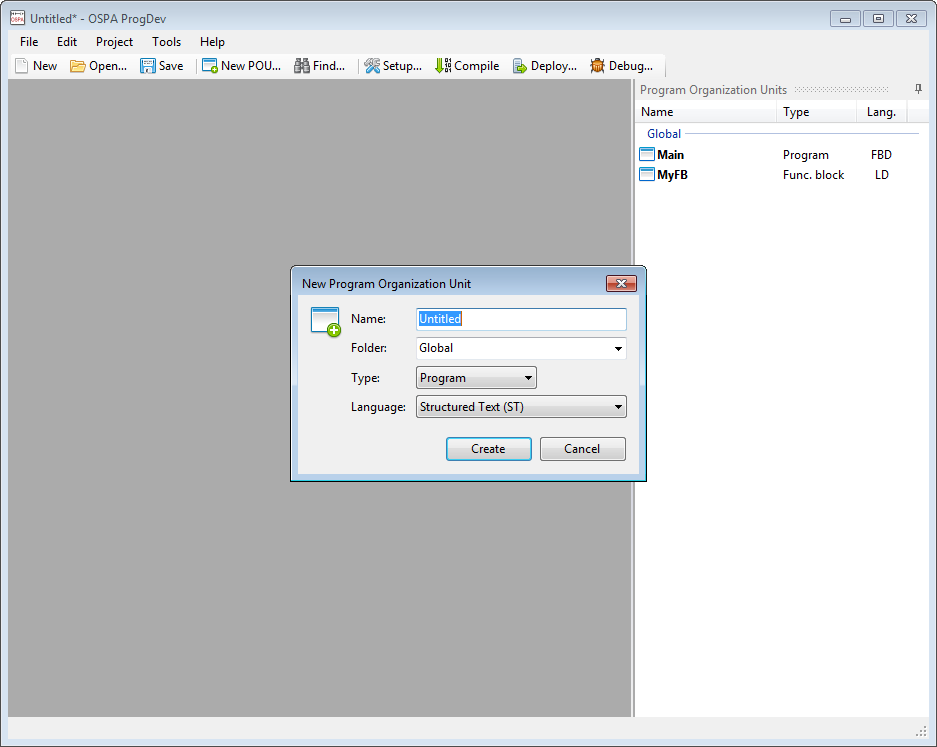
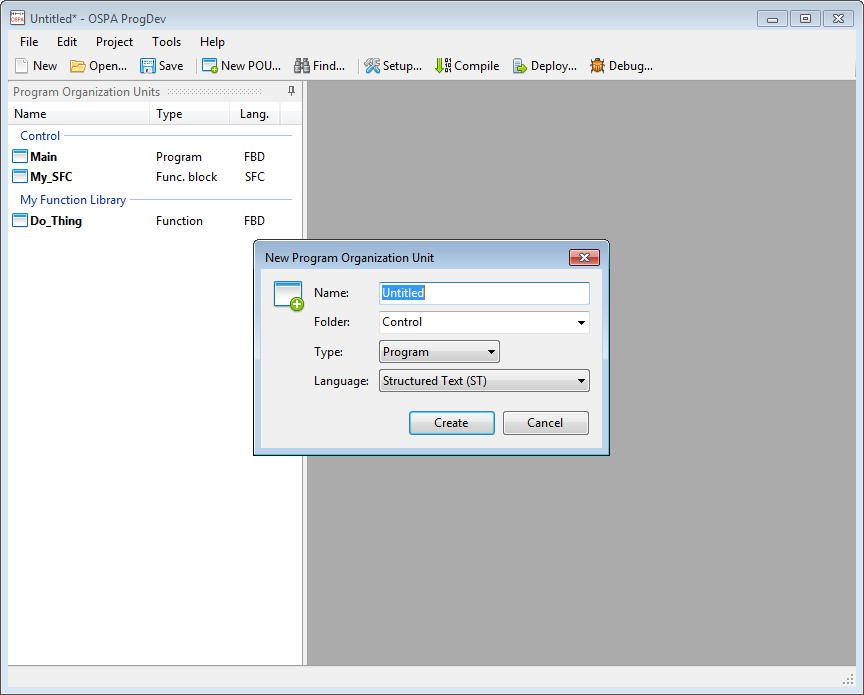
Update readme.

diff --git a/README.md b/README.md
@@ -4,8 +4,6 @@
 * [OSPA Chipset](doc/OSPA Chipset.md)
 * [ProgDev - Programming software](src/)
 
-(2014-04-13) Development screenshot:
+(2014-04-21) Development screenshot: Project management and undo/redo is in place.
 
 ![Screenshot](Screenshot.png)
-
-Basic shell with the ability to create POUs and folders.
